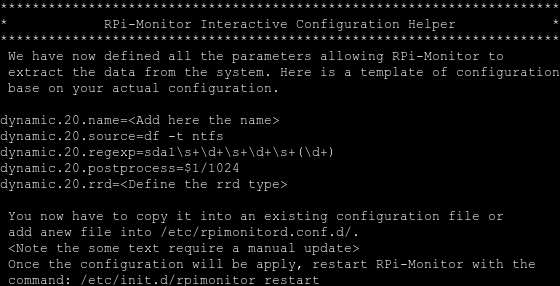
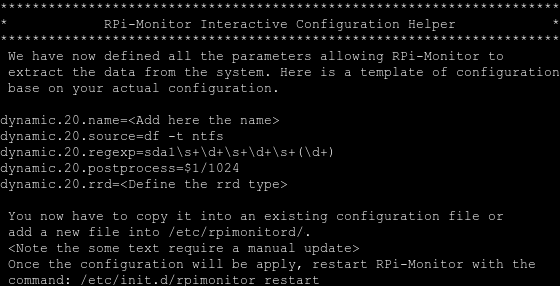
Update docs

Changed region(s): [[0.0911, 0.7832, 0.6375, 0.8392]]

diff --git a/docs/source/23_configuration_helper.rst b/docs/source/23_configuration_helper.rst
@@ -1,5 +1,4 @@
 :github_url: https://github.com/XavierBerger/RPi-Monitor/blob/feature/docs/docs/source/26_configuration_helper.rst
-:wip:
 
 Interactive Configuration Helper
 ================================
@@ -61,7 +60,7 @@ The result is now the one expected , enter ``Yes`` ( or ``yes`` or ``Y`` or ``y`
 
 .. image:: _static/helper009.png
 
-We want the value in ``MB`` while is it given in ``kB``. We then need to devide it by ``1024``.
+We want the value in ``MB`` while is it given in ``kB``. We then need to divide it by ``1024``.
 The formula is then: ``$1/1024``
 
 .. image:: _static/helper010.png
@@ -76,7 +75,8 @@ The value extracted is variable so ``dynamic`` so enter ``No``.
 
 **RPi-Monitor** gives you the template of configuration. You now have to copy it 
 into an existing configuration file or add a new file in
-``/etc/rpimonitord.conf.d/`` and update the text inside ``<>``.
+``/etc/rpimonitord/`` directory or subdirectory. Update the text inside ``<>`` to 
+define how data should be stored. Include this file in ``data.conf``.
 
 ::
 
@@ -89,6 +89,3 @@ into an existing configuration file or add a new file in
 Once the configuration will be apply, restart **RPi-Monitor** with the command:
 
 ``/etc/init.d/rpimonitor restart``
-
-I hope this post is detailled enough to help you to configure **RPi-Monitor** to 
-define the correct sources and regular expression.
